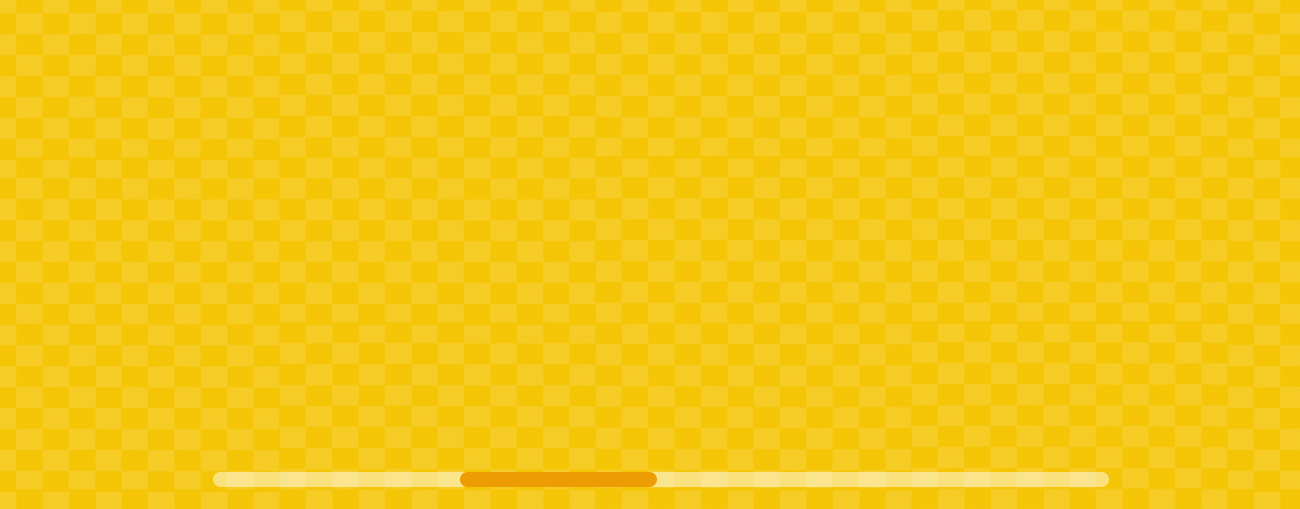
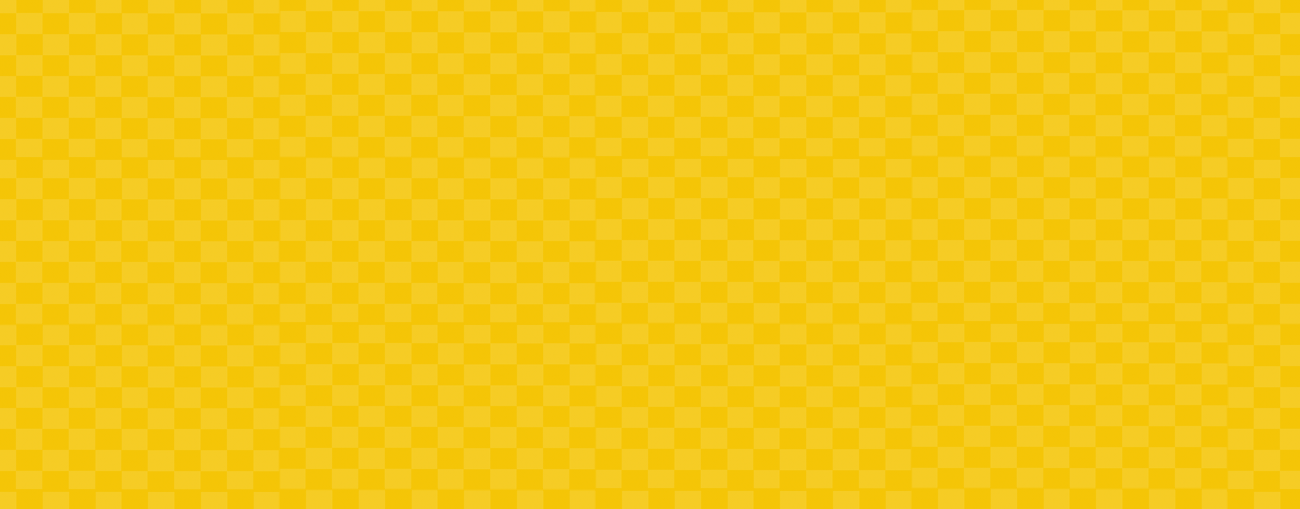
feat: update section 3 and add footer

Changed region(s): [[0.1538, 0.9136, 0.8615, 0.9725]]

diff --git a/style.css b/style.css
@@ -166,6 +166,7 @@ button {
   display: flex;
   align-items: center;
   justify-content: space-between;
+  margin-top: -7px;
 }
 
 .sides {
@@ -197,6 +198,16 @@ button {
   right: 0px;
 }
 
+.banner-vid {
+  margin-top: 15px;
+  margin-left: -20px;
+}
+
+.vid-description {
+  margin-top: -15px;
+  margin-left: 10px;
+}
+
 .vid-txt {
   font-size: 63px;
   letter-spacing: 1px;
@@ -209,6 +220,7 @@ button {
 
 .vid-txt:last-child {
   color: white;
+  padding-left: 20px;
 }
 
 /* Icon area */
@@ -253,12 +265,14 @@ button {
 }
 
 .customise {
+  padding-bottom: 15px;
   width: 140px;
   height: 110px;
   background-image: url(assets/img/icon-leaf.svg);
 }
 
 .free {
+  margin-right: 15px;
   width: 140px;
   height: 110px;
   background-image: url(assets/img/icon-paperplane.svg);
@@ -286,9 +300,9 @@ button {
 
 .section-2-h3 {
   margin-left: 140px;
-  padding-top: 42px;
+  padding-top: 28px;
   width: 918px;
-  height: 130px;
+  height: 110px;
   font-size: 37px;
   letter-spacing: 0px;
   text-transform: uppercase;
@@ -314,7 +328,8 @@ button {
 }
 
 .s2-txt {
-  padding-left: 30px;
+  padding-left: 25px;
+  padding-top: 15px;
   width: 300px;
   height: 307px;
   font-size: 29px;
@@ -325,12 +340,22 @@ button {
   font-family: "Segoe WP";
 }
 
-.plus-btn {
+.plus-btn-left {
   color: #ffffff;
   font-size: 20px;
   font-weight: bold;
   align-self: flex-end;
-  padding-right: 5px;
+  padding-right: 18px;
+  padding-bottom: 8px;
+}
+
+.plus-btn-right {
+  color: #ffffff;
+  font-size: 20px;
+  font-weight: bold;
+  align-self: flex-end;
+  padding-right: 10px;
+  padding-bottom: 8px;
 }
 
 .twitter-box {
@@ -345,6 +370,7 @@ button {
 
 .twitter {
   margin-left: 80px;
+  margin-top: 20px;
   width: 173px;
   height: 150px;
   background-image: url(assets/img/twitter.png);
@@ -353,6 +379,8 @@ button {
 }
 
 .s2-txt-twitter {
+  padding-top: 8px;
+  padding-left: 25px;
   font-size: 25px;
   letter-spacing: 0px;
   line-height: 38px;
@@ -387,4 +415,97 @@ button {
   line-height: 38px;
   color: #b26529;
   font-family: "Segoe WP";
+}
+
+.slider {
+  margin-left: 212px;
+  margin-top: 42px;
+}
+
+.slider input[type="range"] {
+  -webkit-appearance: none !important;
+  width: 897px;
+  height: 16px;
+  background: #ffffff8a;
+  border-radius: 20px;
+  border: none;
+  outline: none;
+}
+
+.slider input[type="range"]::-webkit-slider-thumb {
+  -webkit-appearance: none !important;
+  width: 200px;
+  height: 16px;
+  background: #ec9e03;
+  border-radius: 20px;
+  cursor: pointer;
+}
+
+/* Section 3 */
+
+.s3-bg {
+  width: 1300px;
+  height: 499px;
+  background-image: url(assets/img/s3-bg.png);
+}
+
+.s3-heading {
+  padding-top: 33px;
+  width: 1300px;
+  height: 130px;
+  font-size: 43px;
+  letter-spacing: 0px;
+  text-transform: uppercase;
+  color: #f5c506;
+  font-weight: 400;
+  font-family: "PT Sans";
+  text-align: center;
+}
+
+.s3-content-box {
+  width: 1300px;
+  height: auto;
+  display: flex;
+  /* align-items: center; */
+  justify-content: center;
+}
+
+.s3-cont-left {
+  width: 603px;
+  height: 325px;
+  background-image: url(assets/img/s3-free.png);
+  margin-top: -50px;
+  margin-left: -80px;
+}
+
+.s3-cont-right {
+  width: 352px;
+  height: auto;
+  margin-left: 50px;
+  margin-top: 51px;
+}
+
+li {
+  list-style-image: url(assets/img/li-item.svg);
+  padding-left: 7px;
+  margin-bottom: 10px;
+  line-height: 20px;
+  width: 400px;
+  height: 45px;
+  font-size: 22px;
+  letter-spacing: 0px;
+  color: #a9a9a7;
+  font-weight: 400;
+  font-family: "Open Sans";
+  word-wrap: break-word;
+}
+
+/* Footer */
+
+.footer {
+  width: 1300px;
+  height: 68px;
+  background-image: url(assets/img/footer.png);
+  background-repeat: none;
+  background-size: contain;
 }

diff --git a/index.html b/index.html
@@ -12,7 +12,7 @@
       <header class="header">
         <div class="logo-container">
           <div class="logo"></div>
-          <span class="logo-txt">theyalow</span>
+          <h1 class="logo-txt">theyalow</h1>
         </div>
         <div class="nav-container">
           <nav class="nav-bar-1">
@@ -53,6 +53,7 @@
           <button class="left-btn"></button>
         </div>
         <video
+          class="banner-vid"
           width="549"
           height="327"
           src=""
@@ -98,9 +99,9 @@
           <div class="txt-content">
             <p class="s2-txt">
               Lorem ipsum dolor sit amet, consectetur adipisicing elit, sed do
-              eiusmod tempor incididunt ut
+              eiusmod tempor inci- didunt ut
             </p>
-            <button class="plus-btn" type="button" value="+" name="plus">
+            <button class="plus-btn-left" type="button" value="+" name="plus">
               +
             </button>
           </div>
@@ -115,7 +116,7 @@
           <div class="twitter-box">
             <div class="twitter"></div>
             <p class="s2-txt-twitter">22</p>
-            <button class="plus-btn" type="button" value="+" name="plus">
+            <button class="plus-btn-right" type="button" value="+" name="plus">
               +
             </button>
           </div>
@@ -124,7 +125,25 @@
           <p class="date-day">25</p>
           <p class="date-month">april</p>
         </div>
+        <div class="slider">
+          <input type="range" min="0" max="500" value="175" />
+        </div>
+      </section>
+      <section class="s3-bg">
+        <h2 class="s3-heading">Lorem ipsum dolor sit amet</h2>
+        <div class="s3-content-box">
+          <div class="s3-cont-left"></div>
+          <div class="s3-cont-right">
+            <ul>
+              <li>Sed ut perspiciatis unde omnis</li>
+              <li>Lorem ipsum dolor sit amet, con- sectetur adipisicing</li>
+              <li>Sed ut perspiciatis unde omnis</li>
+              <li>Lorem ipsum dolor sit amet, con- sectetur adipisicing</li>
+            </ul>
+          </div>
+        </div>
       </section>
     </main>
+    <footer class="footer"></footer>
   </body>
 </html>
